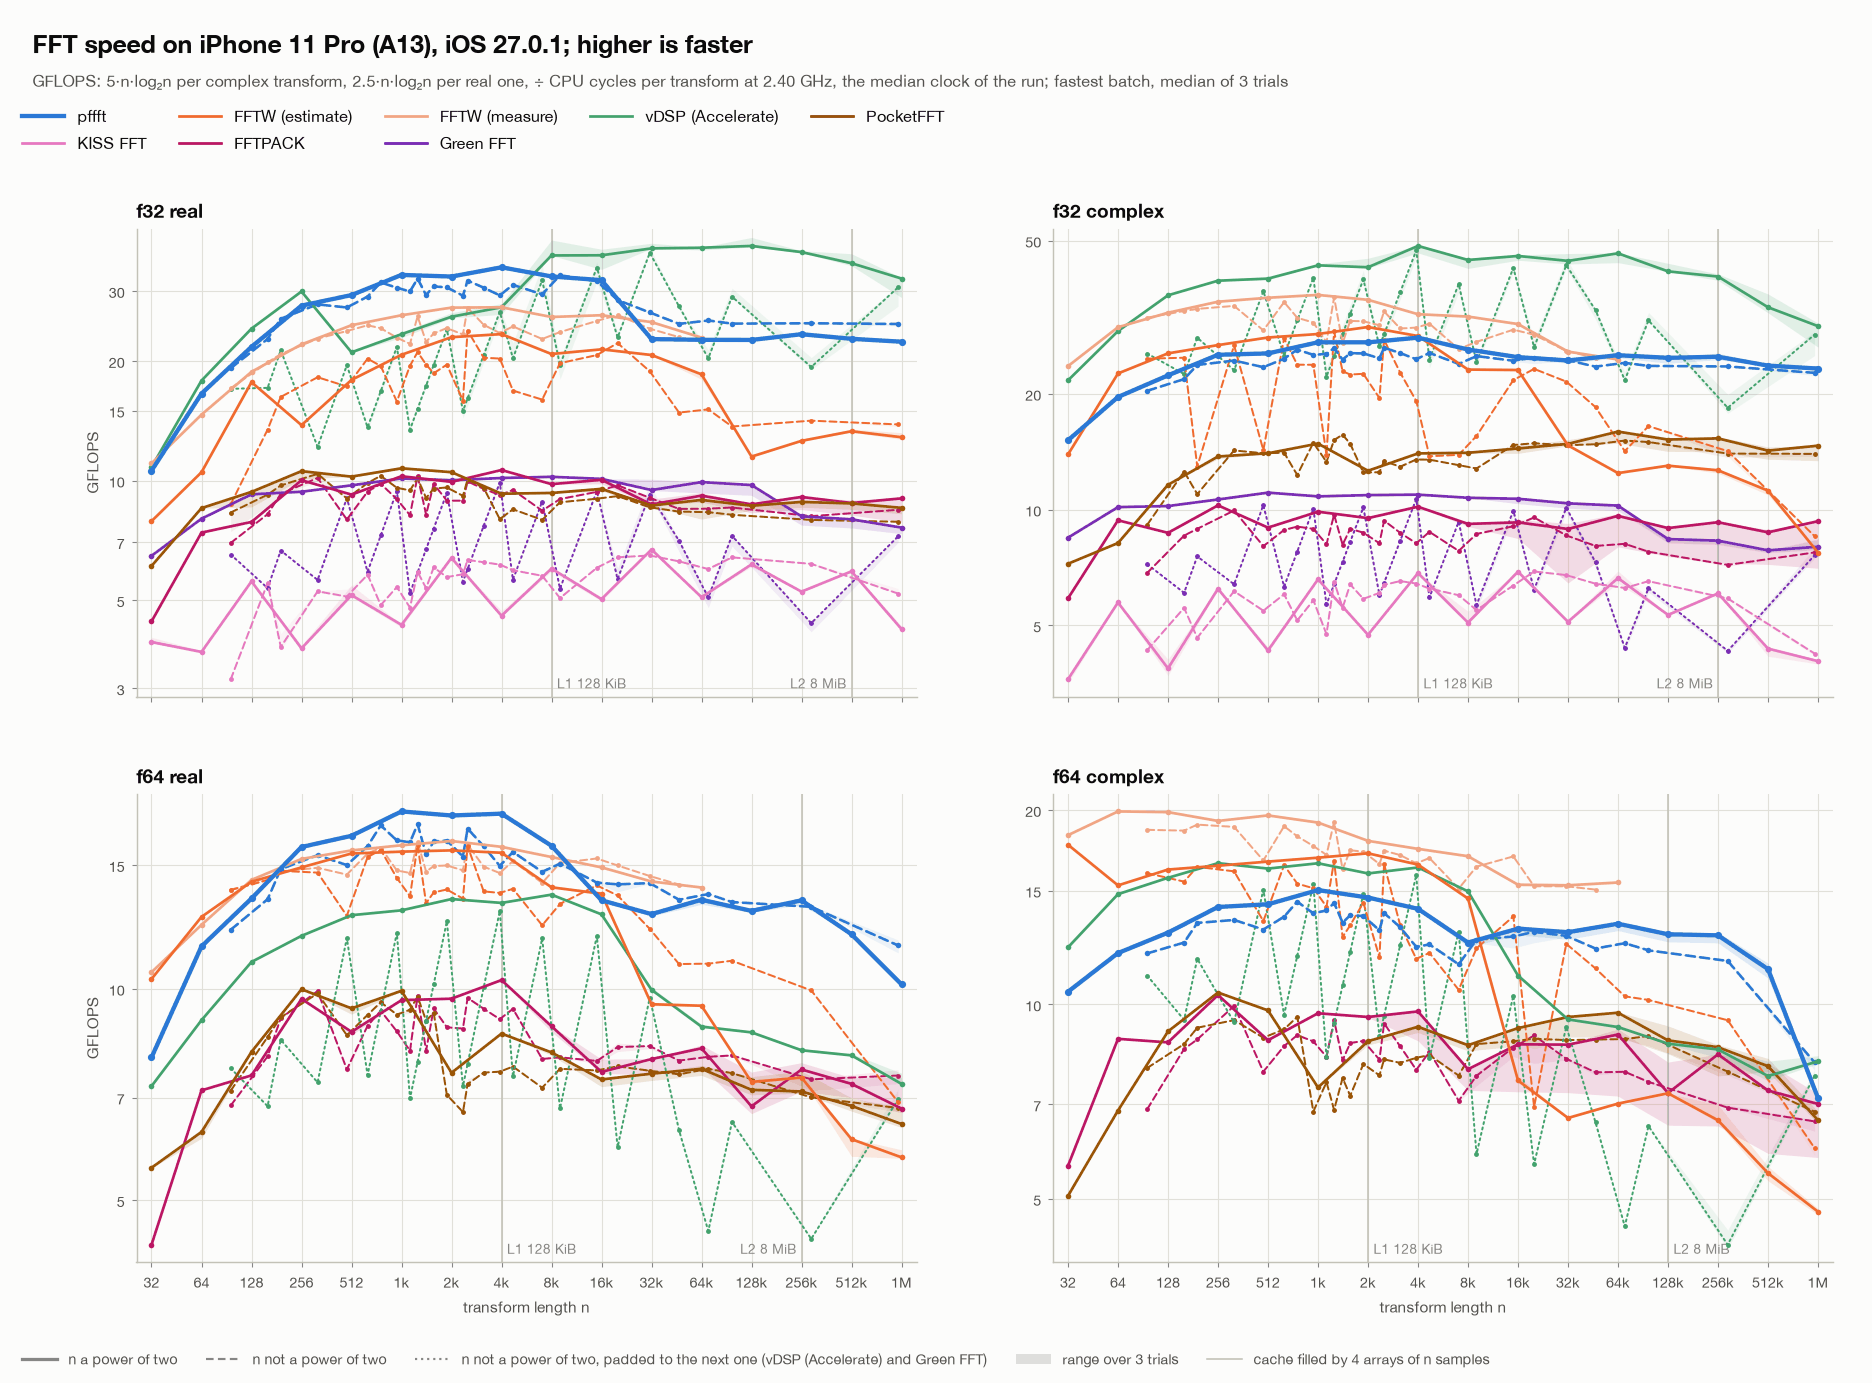
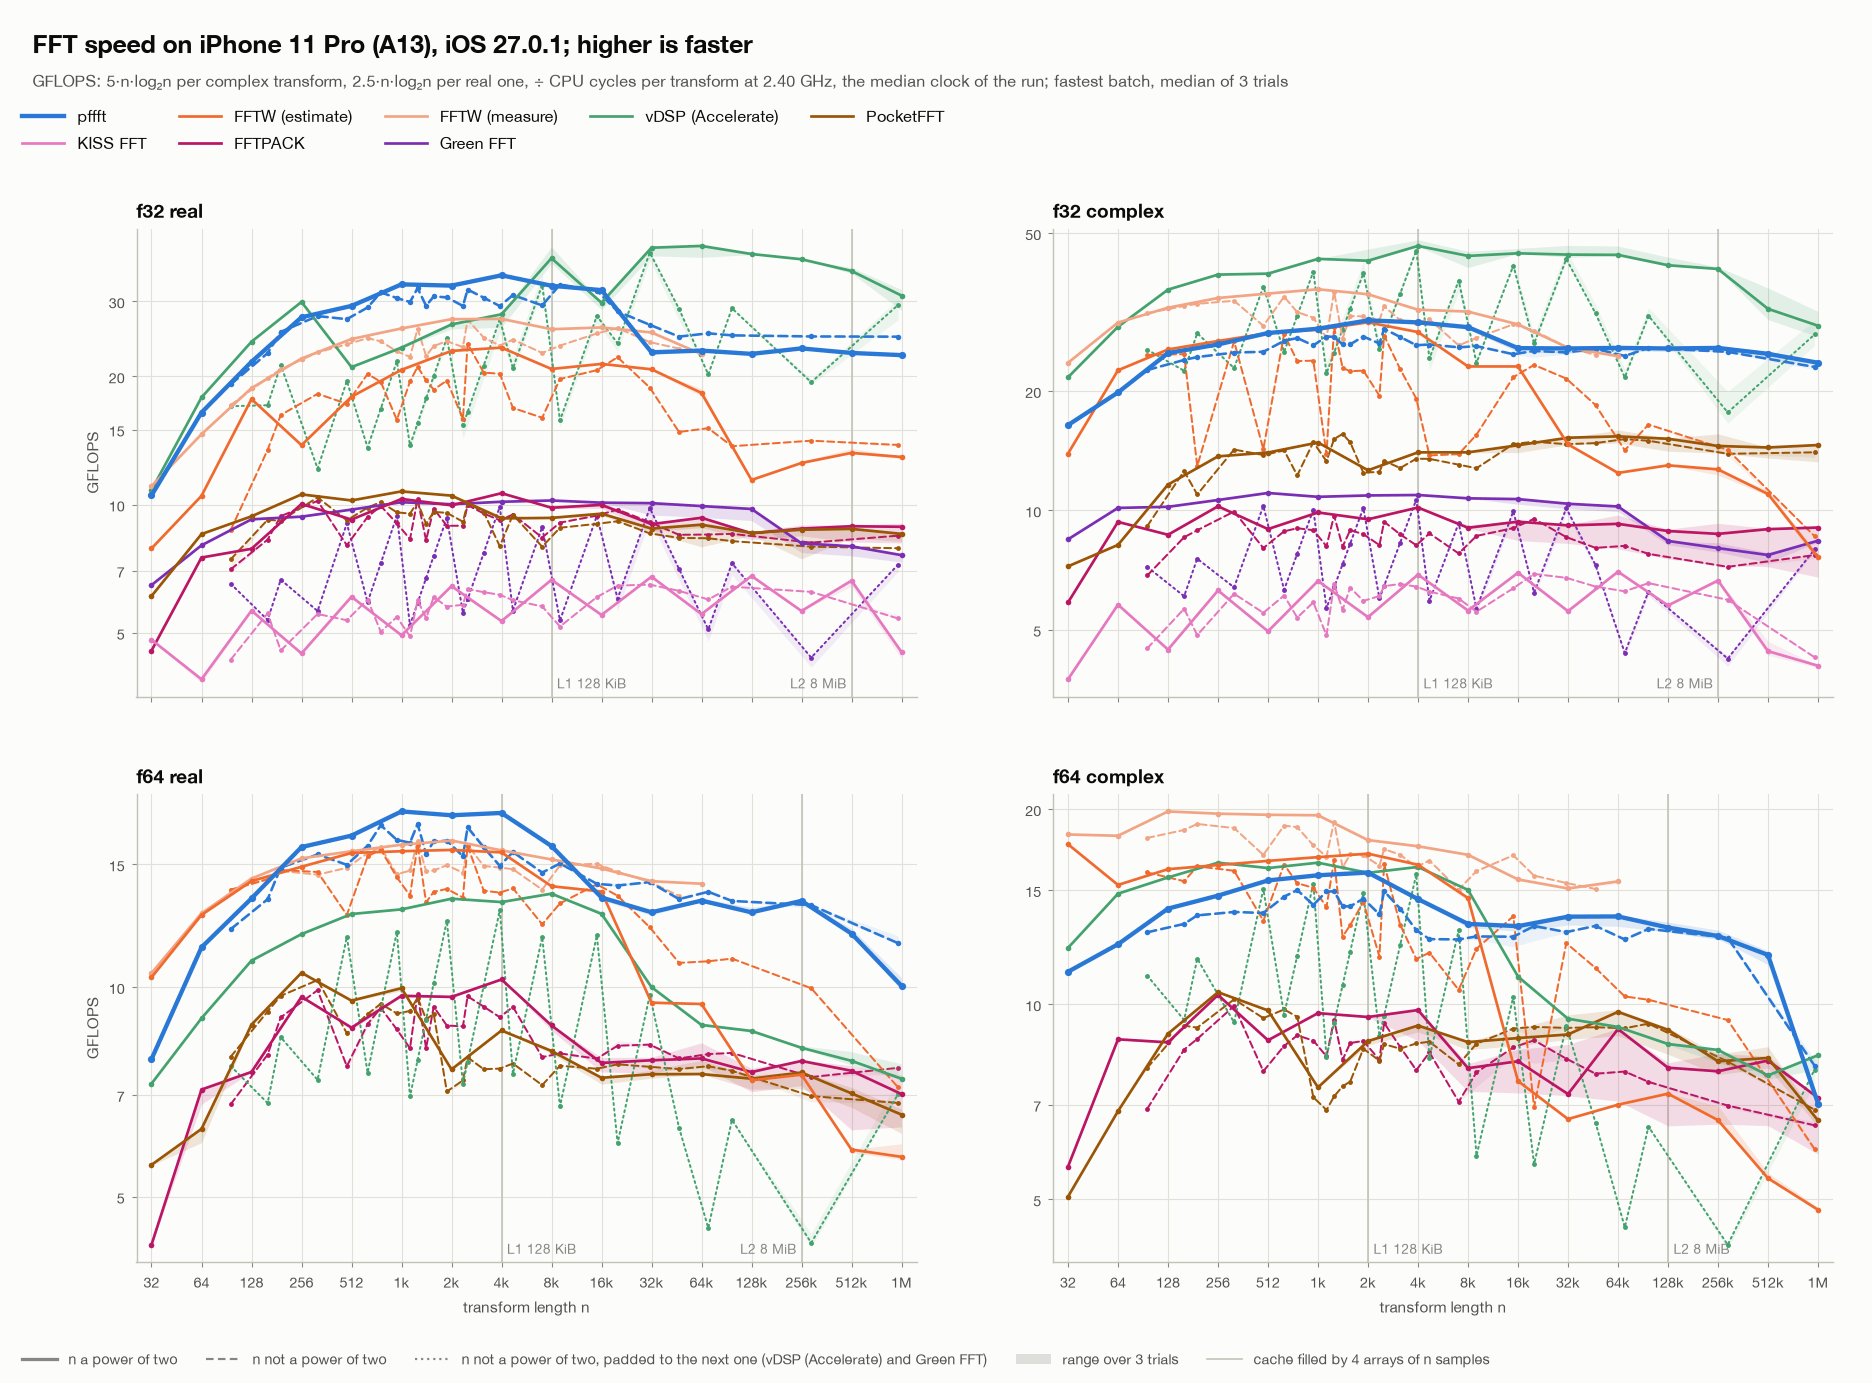
docs: benchmark results of the current code on nine machines
docs/benchmarks.md: the charts and the summary table of all nine
machines, measured again with the current code (as commits 677d4ae and
3de6600, the same code as 5ffaad7): the M2, the iPhone 11 Pro and the
MediaTek MT6878 phone at home, and the GitHub runners Neoverse N2
(Linux), Cobalt 100 (Windows), Xeon 6975P-C (Linux), Xeon Platinum 8573C
(Windows, where the EPYC 7763 was), EPYC 9V45 (Linux, new) and Core
i7-8700B (macOS). pffft beat PocketFFT, KISS FFT, FFTPACK and Green FFT
in 1554 of the 1584 cases; 21 of the 30 exceptions are complex lengths
that are not powers of two on the EPYC 9V45, where PocketFFT was up to
14% faster in single precision.

The comparison with pffft 1.1.0, which is as fast as Julien Pommier's
original, is measured again with the current code instead of 1.3.1, on
the M2, the iPhone, the MediaTek phone, the Xeon 6975P-C, the Core
i7-8700B and an EPYC 7763 (Windows): on average 16 to 17% faster below
n = 4096 on arm64 and 7.5 to 10.5% from there up, on x86 8 to 14% and
4 to 5.5%. The README quotes those numbers and counts nine machines.

Charts rendered as before, at 130 dpi with 256 colours.

diff --git a/docs/benchmarks.md b/docs/benchmarks.md
@@ -1,11 +1,11 @@
 # pffft benchmark results
 
 Measured with [bench_fft](../benchmarks/README.md) in November 2026: pffft
-1.3.1 against the FFT libraries it is usually compared with, on eight
-machines, and against pffft 1.1.0, which is as fast as Julien Pommier's
-original, on six. Every chart has a panel per precision (f32, f64) and
-transform kind (real, complex) and covers 44 lengths from 32 to 2^20: the
-powers of two and 28 other lengths with factors 3 and 5.
+(commit 5ffaad7) against the FFT libraries it is usually compared with, on
+nine machines, and against pffft 1.1.0, which is as fast as Julien
+Pommier's original, on six. Every chart has a panel per precision (f32, f64)
+and transform kind (real, complex) and covers 44 lengths from 32 to 2^20:
+the powers of two and 28 other lengths with factors 3 and 5.
 
 ## Summary
 
@@ -16,21 +16,26 @@ is not available there.
 
 | Machine | FFTW (measure) | FFTW (estimate) | vDSP | PocketFFT | KISS FFT | FFTPACK | Green FFT |
 |---|---|---|---|---|---|---|---|
-| Apple M2, macOS | 0.86 | 1.17 | 0.80 | 1.80 | 4.51 | 2.26 | 2.31 |
-| iPhone 11 Pro (A13), iOS | 0.93 | 1.26 | 0.93 | 1.96 | 4.65 | 2.18 | 2.57 |
-| MediaTek MT6878, Android | 1.09 | 1.37 | - | 1.96 | 4.26 | 2.17 | 2.02 |
-| Arm Neoverse N2, Linux | 1.17 | 1.60 | - | 1.81 | 4.55 | 2.63 | 4.23 |
-| Microsoft Cobalt 100 (Neoverse N2), Windows | - | - | - | 2.27 | 3.97 | 2.42 | - |
-| Intel Xeon 6975P-C, Linux | 0.55 | 0.84 | - | 1.51 | 5.59 | 2.12 | 3.34 |
-| AMD EPYC 7763, Windows | 0.70 | 1.60 | - | 2.93 | 5.09 | 2.81 | - |
-| Intel Core i7-8700B, macOS (VM) | 0.76 | 1.28 | 0.63 | 1.97 | 4.26 | 2.16 | 2.43 |
+| Apple M2, macOS | 0.88 | 1.20 | 0.82 | 1.85 | 4.43 | 2.33 | 2.40 |
+| iPhone 11 Pro (A13), iOS | 0.95 | 1.29 | 0.95 | 1.99 | 4.59 | 2.23 | 2.64 |
+| MediaTek MT6878, Android | 1.12 | 1.41 | - | 2.01 | 4.32 | 2.24 | 2.08 |
+| Arm Neoverse N2, Linux | 1.22 | 1.65 | - | 1.87 | 4.71 | 2.71 | 4.37 |
+| Microsoft Cobalt 100 (Neoverse N2), Windows | - | - | - | 2.34 | 4.06 | 2.50 | - |
+| Intel Xeon 6975P-C, Linux | 0.57 | 0.87 | - | 1.55 | 5.75 | 2.18 | 3.45 |
+| Intel Xeon Platinum 8573C, Windows | 0.62 | 1.22 | - | 2.54 | 4.12 | 2.65 | - |
+| AMD EPYC 9V45, Linux | 0.68 | 1.34 | - | 1.54 | 6.73 | 2.83 | 4.90 |
+| Intel Core i7-8700B, macOS (VM) | 0.78 | 1.30 | 0.63 | 2.03 | 4.38 | 2.20 | 2.43 |
 
 KISS FFT and Green FFT are measured in single precision only.
 
 - **Portable libraries.** pffft was faster than PocketFFT, KISS FFT, FFTPACK
-  and Green FFT in 1397 of the 1408 cases. The 11 exceptions are complex
-  transforms on the two x86 machines with macOS and Linux, 10 of them at n
-  of 72000 and more, out of cache; there pffft was at most 8.7% slower.
+  and Green FFT in 1554 of the 1584 cases. 21 of the 30 exceptions are on
+  the AMD EPYC 9V45, all against PocketFFT and all complex: 18 single
+  precision lengths that are not powers of two, from 960 to 1000000, where
+  pffft was up to 14.4% slower, and 3 double precision ones, up to 3.3%. The
+  other 9 are complex transforms out of cache, at n of 65536 and more (5 on
+  the Xeon 6975P-C, 2 on the Core i7-8700B, 1 each on the M2 and the
+  iPhone), where pffft was at most 7.6% slower.
 - **FFTW** plans a transform in one of several modes; two are measured here.
   `FFTW_ESTIMATE` plans at once, as pffft and the other libraries do.
   `FFTW_MEASURE` times candidate algorithms on the machine and keeps the
@@ -38,16 +43,16 @@ KISS FFT and Green FFT are measured in single precision only.
   that planning time out, so the comparison favours `FFTW_MEASURE`: in an
   application its cost pays off only over many transforms of one length.
   - *Real transforms.* pffft was faster than `FFTW_ESTIMATE` on every
-    machine (geometric means from 1.02 on the Xeon 6975P-C to 1.75 on the
+    machine (geometric means from 1.02 on the Xeon 6975P-C to 1.74 on the
     Neoverse N2). On arm64 it was also faster than `FFTW_MEASURE` on the
     iPhone, the MediaTek phone and the Neoverse N2 (1.10, 1.27 and 1.39)
     and level with it on the M2 (1.00).
   - *Complex transforms.* pffft was faster than `FFTW_ESTIMATE` everywhere
-    but on the Xeon 6975P-C (1.08 to 1.53; 0.69 there). `FFTW_MEASURE` was
-    faster on Apple's chips (pffft 0.73 and 0.78) and level on the MediaTek
-    phone and the Neoverse N2 (0.93 and 0.99).
-  - *x86.* `FFTW_MEASURE` was faster on the x86 machines (pffft 0.55 to
-    0.76 over all cases): FFTW has AVX2 and AVX-512 code, while pffft's
+    but on the Xeon 6975P-C (1.07 to 1.56; 0.73 there). `FFTW_MEASURE` was
+    faster on Apple's chips (pffft 0.77 and 0.83), level with pffft on the
+    MediaTek phone (1.00) and slower on the Neoverse N2 (1.06).
+  - *x86.* `FFTW_MEASURE` was faster on the x86 machines (pffft 0.57 to
+    0.78 over all cases): FFTW has AVX2 and AVX-512 code, while pffft's
     single precision uses 4-wide SSE there (its double precision uses AVX).
 - **vDSP**, Apple's FFT, was faster in single precision. On Apple's chips it
   hands single-precision FFTs from n = 256 or 512 to the AMX matrix unit, a
@@ -56,45 +61,50 @@ KISS FFT and Green FFT are measured in single precision only.
   chip lowers its clock, by 7.7% on the M2 and up to 25% on the iPhone 11
   Pro, for as long as AMX is busy; bench_fft charges vDSP for that (see
   [How it was measured](#how-it-was-measured)). In double precision, where
-  vDSP did not lower the clock, pffft was level or faster on Apple's chips
-  (geometric means 0.99 to 1.32 per kind) and slower on the Intel Mac
-  (0.74 real, 0.64 complex).
+  vDSP did not lower the clock, pffft was faster on Apple's chips
+  (geometric means 1.03 to 1.32 per kind) and slower on the Intel Mac
+  (0.73 real, 0.65 complex).
 
 ## Performance improvements since Pommier's pffft
 
-![pffft 1.3.1 vs 1.1.0 on Apple M2, iPhone 11 Pro and MediaTek MT6878](benchmarks/pffft-1.3.1-vs-1.1.0.png)
+![pffft 5ffaad7 vs 1.1.0 on Apple M2, iPhone 11 Pro and MediaTek MT6878](benchmarks/pffft-vs-1.1.0.png)
 
 pffft 1.1.0 (here commit c14802c) predates the performance work of this
 fork. Its single-precision FFT is Julien Pommier's original code, so its
 speed is the speed of Pommier's pffft (which has no double precision). Since
 then pffft has gained, among others, fused multiply-adds (NEON and x86 FMA),
 NEON double precision with native intrinsics instead of an emulation, faster
-NEON transposes, fast paths in the radix-3 and radix-4 real butterflies, a
-radix-8 pass for complex n = 32, and code layout that keeps the radix-3 and
-radix-5 real kernels out of line.
+NEON transposes, fast paths in the radix-3 and radix-4 real butterflies,
+code layout that keeps the radix-3 and radix-5 real kernels out of line, a
+radix-8 last pass for the complex lengths whose n/4 has an odd power of two,
+and complex butterflies that get the direction of the transform as a
+constant.
 
 Both versions run in one process and take turns, batch by batch
-(benchmarks/compare.py). Averaged over the lengths, 1.3.1 was 11 to 13%
-faster below n = 4096 (11.1% on the M2, 12.6% on the iPhone, 12.0% on the
-MediaTek phone) and 5 to 8% faster from 4096 up (5.5%, 8.1% and 5.3%), up
-to 24% at single lengths. In cache (n up to 16384) it was faster at every
-length, by 2% at least; out of cache the gain shrinks, and on the MediaTek
-phone it is within the noise at many lengths from 2^16 up.
+(benchmarks/compare.py). Averaged over the lengths, the current pffft was 16
+to 17% faster below n = 4096 (16.0% on the M2, 16.8% on the iPhone, 16.3% on
+the MediaTek phone) and 7.5 to 10.5% faster from 4096 up (7.5%, 10.5% and
+8.2%), up to 34% at single lengths (complex n = 32 on the M2). In cache (n up
+to 16384) it was faster at every length, by 2% at least; out of cache the
+gain shrinks, and on the MediaTek phone a few real lengths from 2^16 up are
+within the noise (1.2% slower at most).
 
-![pffft 1.3.1 vs 1.1.0 on Intel Xeon 6975P-C, Intel Core i7-8700B and AMD EPYC 9V74](benchmarks/pffft-1.3.1-vs-1.1.0-x86.png)
+![pffft 5ffaad7 vs 1.1.0 on Intel Xeon 6975P-C, Intel Core i7-8700B and AMD EPYC 7763](benchmarks/pffft-vs-1.1.0-x86.png)
 
 On x86 the gain is smaller, as much of the work above was for NEON; what
-applies there is FMA (where the build targets AVX2 or newer), the radix-3 and
-radix-4 fast paths, the radix-8 pass and the code layout. Below n = 4096,
-1.3.1 was 9.9% faster on the Xeon 6975P-C (Linux, gcc), 7.1% on the Core
-i7-8700B (macOS, Clang) and 4.8% on the EPYC 9V74 (Windows, MSVC); from 4096
-up 2.3%, 1.6% and 3.2%. The largest gains are at complex n = 32, the radix-8
-pass: 21% on the Xeon, 29 to 35% on the other two. In cache the EPYC was
-faster at every length; the Xeon and the Core i7 were slower at a few
-lengths from 2048 up, by 2% at most. Out of cache the gain shrinks to 1.5 to
-1.7% on average on the Xeon and the Core i7 (single lengths from -3% to
-+16%) and stays at 3.2% on the EPYC. Two runs of 1.1.0 against itself, on
-the same runner images, differed by 0.2 to 0.3% on average.
+applies there is FMA (where the build targets AVX2 or newer), the radix-3
+and radix-4 fast paths, the code layout, the radix-8 pass and the constant
+direction. Below n = 4096, pffft was 13.8% faster on the Xeon 6975P-C
+(Linux, gcc), 12.8% on the Core i7-8700B (macOS, Clang) and 7.9% on the EPYC
+7763 (Windows, MSVC); from 4096 up 5.4%, 3.8% and 4.9%. The largest gains
+are at complex n = 32: in single precision 33% on the Xeon, 44% on the Core
+i7 and 25% on the EPYC. No complex length was slower (in a second run on the
+Xeon, one by 0.2%, within the noise). Some real lengths were slower: on the
+Xeon and the Core i7 several from n = 4000 up, by 2.3% at most in cache and
+5.0% out of cache; on the EPYC f32 n = 96 by 7.2% and f64 n = 32 by 4.2%.
+The averages of two runs of this comparison on the Xeon 6975P-C, on
+different hosts, differed by less than 0.1%, single lengths by 0.25% on
+average.
 
 ## Machines
 
@@ -136,10 +146,17 @@ Green FFT crashes on Windows.
 ### Intel Xeon 6975P-C, Linux (GitHub runner)
 ![FFT speed on Intel Xeon 6975P-C](benchmarks/xeon-6975p-c-linux.png)
 
-### AMD EPYC 7763, Windows (GitHub runner)
-FFTW is built with its CMake build here, with AVX2 (the CPU has no AVX-512).
+### Intel Xeon Platinum 8573C, Windows (GitHub runner)
+FFTW is built with its CMake build here, with AVX2: that build has no
+AVX-512 code, while pffft and the other libraries were built with
+/arch:AVX512.
 
-![FFT speed on AMD EPYC 7763](benchmarks/epyc-7763-windows.png)
+![FFT speed on Intel Xeon Platinum 8573C](benchmarks/xeon-platinum-8573c-windows.png)
+
+### AMD EPYC 9V45, Linux (GitHub runner)
+This runner exposes no cycle counter, so the chart is in measured time.
+
+![FFT speed on AMD EPYC 9V45](benchmarks/epyc-9v45-linux.png)
 
 ### Intel Core i7-8700B, macOS (GitHub runner, VM)
 ![FFT speed on Intel Core i7-8700B](benchmarks/core-i7-8700b-macos.png)
@@ -154,8 +171,8 @@ FFTW is built with its CMake build here, with AVX2 (the CPU has no AVX-512).
 - **Time.** Where the system lets a program count its CPU cycles (the M2,
   the iPhone, the MediaTek phone, the Neoverse N2 and the Xeon 6975P-C), a
   transform's time is its cycles at the median clock of the run, which
-  keeps the clock's noise out. Elsewhere (Windows, macOS virtual machines)
-  it is the measured time.
+  keeps the clock's noise out. Elsewhere (Windows, macOS virtual machines,
+  the EPYC 9V45) it is the measured time.
 - **Clock.** Cycles are fair only if every library runs at the same clock.
   bench_fft compares the clock of each batch with that of the neighbouring
   batches of the other libraries; a library that lowers the clock by more
@@ -165,15 +182,21 @@ FFTW is built with its CMake build here, with AVX2 (the CPU has no AVX-512).
   its limits.
 - **Builds.** Every library was compiled from source with the same flags,
   the best for the CPU: -march=native with Clang and GCC (the M2, the Linux
-  and macOS runners), /arch:AVX2 with MSVC on the EPYC, MSVC's default on
-  the Cobalt 100. The phones were built with their toolchain's defaults
-  (NEON). FFTW 3.3.10 was built with its SIMD code (NEON, AVX, AVX2,
-  AVX-512 where the CPU has it). vDSP is the system's Accelerate.
-- **Versions.** 1.3.1 is pffft as of commit e392851; 1.1.0 is commit
-  c14802c. The phones and the M2 ran the benchmark locally; the other
+  and macOS runners), /arch:AVX512 with MSVC on the Xeon Platinum 8573C
+  (/arch:AVX2 on the EPYC 7763 of the comparison with 1.1.0), MSVC's default
+  on the Cobalt 100. The phones were built with their toolchain's defaults
+  (NEON). FFTW 3.3.10 was built with its SIMD code (NEON, AVX, AVX2, AVX-512
+  where the CPU has it), except on Windows, where its CMake build has AVX2
+  at most and no NEON (hence no FFTW on the Cobalt 100). vDSP is the
+  system's Accelerate.
+- **Versions.** pffft is commit 5ffaad7, measured as commits 677d4ae and
+  3de6600, which have the same code (the CSV headers name those); 1.1.0 is
+  commit c14802c. The phones and the M2 ran the benchmark locally; the other
   machines are GitHub-hosted runners (shared virtual machines), measured by
   .github/workflows/bench.yml, the comparisons on x86 with its `compare`
-  input set to `c14802c e392851`.
+  input set to `c14802c 3de6600`. GitHub's ubuntu-26.04 label lands on Intel
+  and AMD CPUs, some without a cycle counter; its runs were repeated until
+  one ran on the Xeon 6975P-C with one.
 
 To repeat a measurement:
 

diff --git a/README.md b/README.md
@@ -410,12 +410,12 @@ The `bench_*` tests are excluded because they allocate about 1 GiB.
 
 ## Benchmarks
 
-pffft is faster than most FFT libraries: on eight machines, from phones to
+pffft is faster than most FFT libraries: on nine machines, from phones to
 servers, arm64 and x86, it beat PocketFFT, KISS FFT, FFTPACK and Green FFT
 at nearly every length. Only FFTW and Apple's vDSP are sometimes faster.
-Thanks to performance fixes, pffft is now on average 11 to 13% faster than
-Julien Pommier's original below n = 4096 on arm64, and 5 to 8% faster at
-larger n; on x86, 5 to 10% and 2 to 3%.
+Thanks to performance fixes, pffft is now on average 16 to 17% faster than
+Julien Pommier's original below n = 4096 on arm64, and 7.5 to 10.5% faster at
+larger n; on x86, 8 to 14% and 4 to 5.5%.
 [docs/benchmarks.md](docs/benchmarks.md) has the details.
 
 `bench_fft` measures pffft against other FFT libraries (FFTPACK, FFTW,
